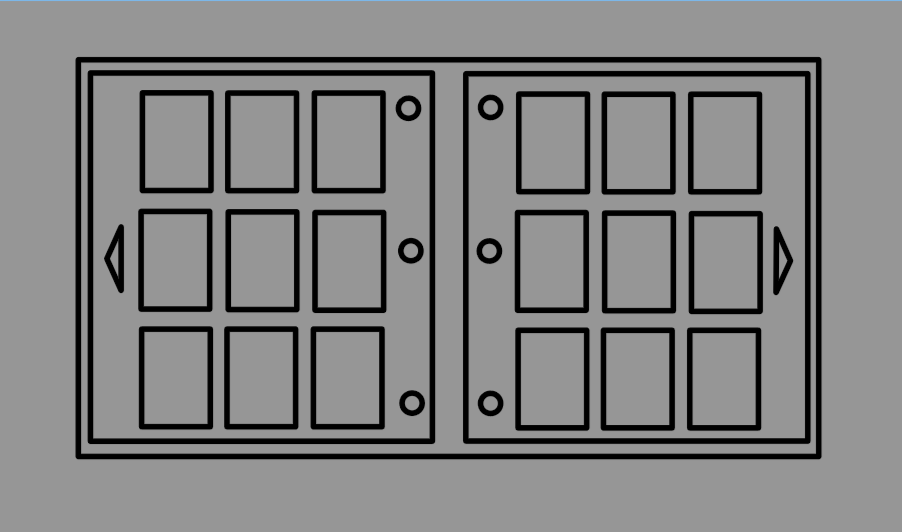
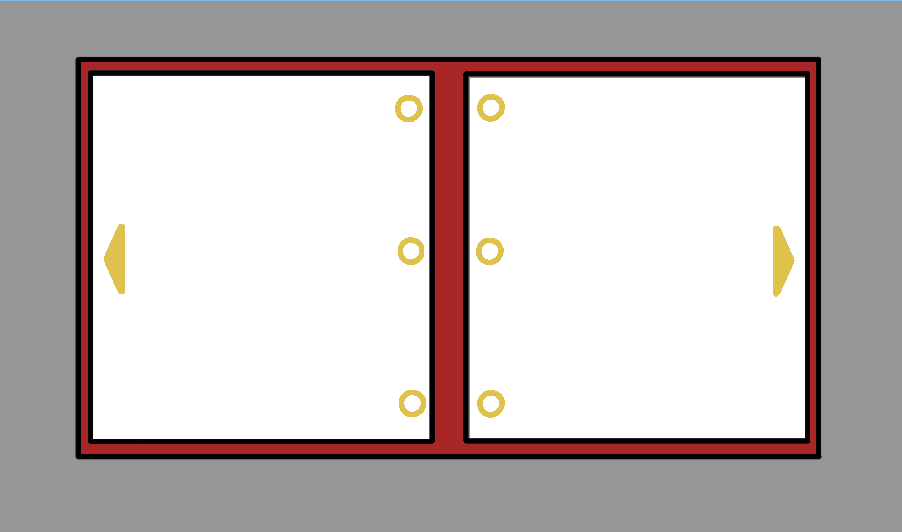
new binder with color and placeholder card

diff --git a/main.py b/main.py
@@ -41,7 +41,7 @@ battle_00 = pygame.image.load("Images/battle_00.png")
 pointer = pygame.image.load("Images/pointer x5.png")
 search_glass = pygame.image.load("Images/Magnifying Glass.png")
 binder_highlight = pygame.image.load("Images/yellow border.png")
-back_card = pygame.image.load("Images/card_back.png")
+placeholder_card = pygame.image.load("Images/placeholder.png")
 
 binder = pygame.image.load("Images/binder2.png")
 resized_binder = pygame.transform.scale(binder, (1000, 600))
@@ -52,7 +52,7 @@ lever = pygame.transform.scale(lever, (65, 364))
 rotated_lever = pygame.transform.rotate(lever, -16)
 lever_rect = rotated_lever.get_rect(center=(480, 250))
 binder_highlight = pygame.transform.scale(binder_highlight, (222, 196))
-back_card = pygame.transform.scale(back_card, (90, 123))
+placeholder_card = pygame.transform.scale(placeholder_card, (90, 123))
 
 page = "Start"
 
@@ -269,6 +269,7 @@ while running[0]:
                     password_box.reset()
             pointer_pos = 1
         
+        
 
         if event.type == pygame.KEYDOWN and event.key == pygame.K_LEFT:
             if page == "SBattle" or page == "Battle":
@@ -278,14 +279,8 @@ while running[0]:
                 """
                 if pointer_pos % 2 == 0:
                     pointer_pos -= 1
-            # for individual flipping of binder
-            #elif page == "Binder":
-                #if pointer_pos == 1:
-                    #if left_page >= 3 and right_page <= 8:
-                        #left_page -= 2
-                        #right_page -= 2
-    
 
+    
         if event.type == pygame.KEYDOWN and event.key == pygame.K_RIGHT:
             if page == "SBattle" or page == "Battle":
                 if pointer_pos % 2 == 1:
@@ -317,14 +312,14 @@ while running[0]:
                 else:
                     highlight_x += 95
                     highlight_num += 1
-                if highlight_x > 708:
+                if highlight_x >= 708:
                     if right_page < 8:
                         highlight_x = 95
                         right_page += 2
                         left_page += 2
                     else:
-                        highlight_x = 708
-                
+                        highlight_x = 703
+                print(highlight_num)
             elif event.key == pygame.K_LEFT and not pointer_on:
                 if highlight_x == 513:
                     highlight_x -= 228
@@ -350,6 +345,7 @@ while running[0]:
             elif event.key == pygame.K_DOWN and highlight_y <= 206:
                 highlight_y += 133
                 highlight_num += 3
+
 
     ### HANDLE SERVER MESSAGES
     
@@ -482,9 +478,9 @@ while running[0]:
         else:
             pointer_on = False
         draw_binder(screen, left_page, right_page, resized_binder, base_font, button_exit)
-        screen.blit(back_card, (150, 101))
-        screen.blit(back_card, (245, 101))
-        screen.blit(back_card, (340, 101))
+        screen.blit(placeholder_card, (150, 101))
+        screen.blit(placeholder_card, (245, 101))
+        screen.blit(placeholder_card, (340, 101))
 
         screen.blit(binder_highlight, (highlight_x, highlight_y))
 
